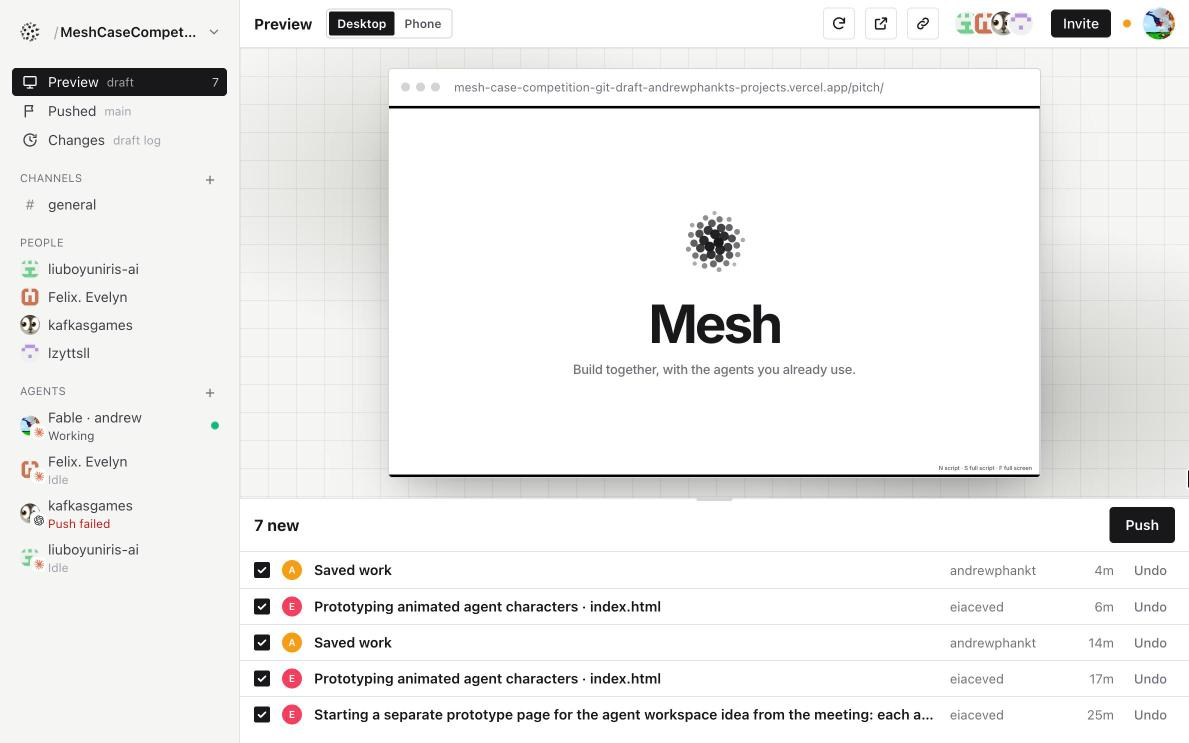
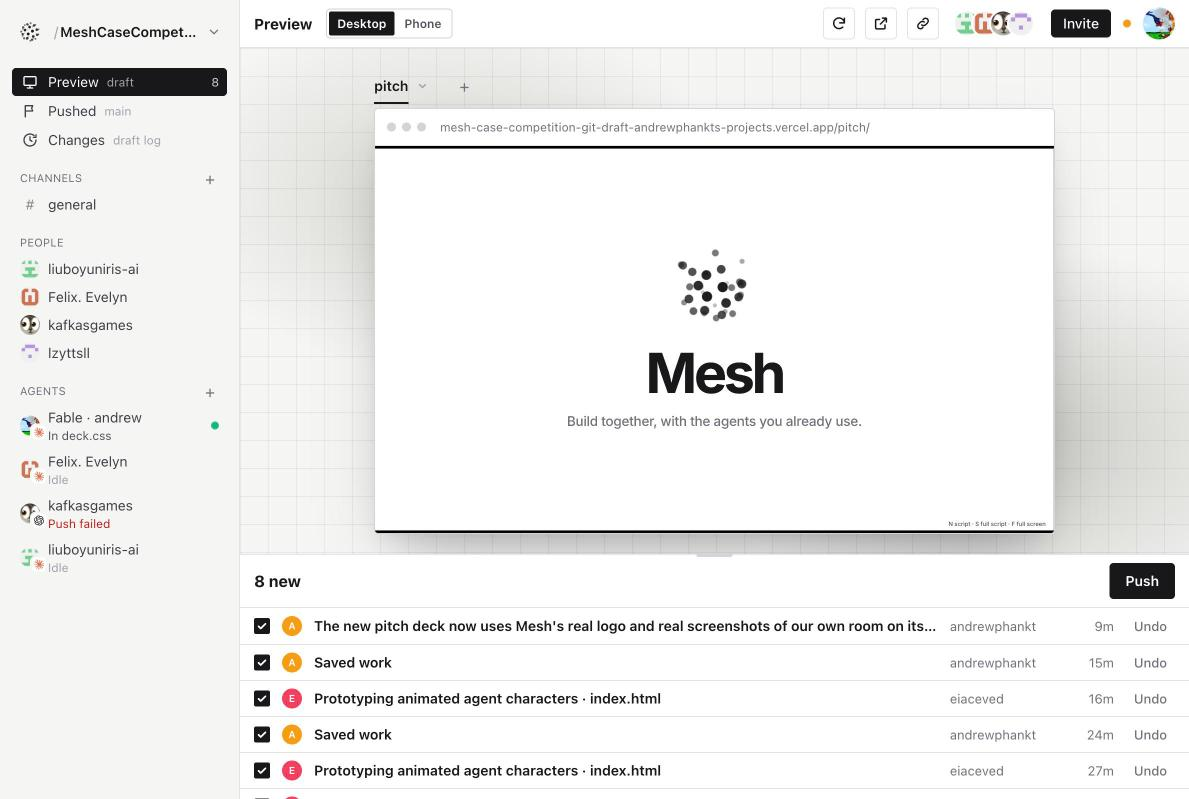
Saved turn

diff --git a/pitch/index.html b/pitch/index.html
@@ -8,6 +8,7 @@
 <link rel="preconnect" href="https://fonts.gstatic.com" crossorigin>
 <link href="https://fonts.googleapis.com/css2?family=Inter:wght@400;500;600;700&family=JetBrains+Mono:wght@400;500&display=swap" rel="stylesheet">
 <link rel="stylesheet" href="deck.css">
+<link rel="stylesheet" href="live.css">
 </head>
 <body>
 <!--
@@ -84,20 +85,49 @@
     <div class="script">So we built Mesh: one room for your team and everyone's agents.</div>
   </section>
 
-  <!-- 6b Setup: the real onboarding, one screen per click -->
+  <!-- 6b Setup: Mesh's onboarding, drawn live in HTML, one screen per click -->
   <section class="slide" data-title="Setup" data-section="Mesh">
     <h2 class="h2 rise">Three steps. One paste.</h2>
     <div class="desk sm rise">
       <div class="browser">
         <div class="chrome"><span class="dots"><i></i><i></i><i></i></span><span class="tab"><svg class="fav" aria-hidden="true"></svg>Mesh</span></div>
         <div class="bar"><span class="nav">&#8592; &#8594;</span><span class="url">agentslack-production.up.railway.app</span></div>
-        <div class="screen wide">
-          <img src="screens/setup-1-signin.jpg" alt="Mesh sign-in: Different Agents, Same Project, Continue with GitHub">
-          <img class="shot" data-step="1" src="screens/setup-2-project.jpg" alt="Step 2: Pick your project, a GitHub repo">
-          <img class="shot" data-step="2" src="screens/setup-3-agent.jpg" alt="Step 3: Which agent do you use? Claude, Codex, Gemini CLI or Antigravity">
-          <img class="shot" data-step="3" src="screens/setup-4-paste.jpg" alt="Paste this into Codex, with one Copy button">
-          <div class="slot"><b>Mesh · Setup</b><span>screens/setup-*.jpg</span></div>
-        </div>
+        <div class="screen wide has-img"><div class="live">
+          <div class="lv" data-orbits="bot">
+            <div class="stepper"><span class="now"><b>1</b>Sign in</span><hr class=""><span class=""><b>2</b>Project</span><hr class=""><span class=""><b>3</b>Agent</span></div>
+            <div class="center"><svg class="logo fav" aria-hidden="true"></svg><div class="word">MESH</div><h3>Different Agents, Same Project</h3><span class="btn press"><svg viewBox="0 0 24 24" fill="none" stroke="currentColor" stroke-width="2" stroke-linecap="round" aria-hidden="true"><circle cx="6" cy="6" r="2.5"/><circle cx="6" cy="18" r="2.5"/><circle cx="18" cy="9" r="2.5"/><path d="M6 8.5v7M18 11.5c0 3-4 3.5-9.5 5"/></svg>Continue with GitHub</span></div>
+            <div class="foot">What Is Mesh<br>&#8964;</div>
+          </div>
+          <div class="lv" data-step="1" data-act="project">
+            <div class="stepper"><span class="done"><b>&#10003;</b>Sign in</span><hr class="done"><span class="now"><b>2</b>Project</span><hr class=""><span class=""><b>3</b>Agent</span></div>
+            <div class="center"><div class="pick">
+              <h3>Pick your project</h3>
+              <div class="search" data-type="MeshCase" data-placeholder="Search"><span class="t">Search</span><span class="tcaret"></span></div>
+              <div class="repos"><div class="repo" data-name="MeshCaseCompetition"><svg viewBox="0 0 24 24" fill="none" stroke="currentColor" stroke-width="2" stroke-linecap="round" aria-hidden="true"><circle cx="6" cy="6" r="2.5"/><circle cx="6" cy="18" r="2.5"/><circle cx="18" cy="9" r="2.5"/><path d="M6 8.5v7M18 11.5c0 3-4 3.5-9.5 5"/></svg><span>andrewphankt / <b>MeshCaseCompetition</b></span><em>Public</em></div><div class="repo" data-name="study-sprint"><svg viewBox="0 0 24 24" fill="none" stroke="currentColor" stroke-width="2" stroke-linecap="round" aria-hidden="true"><circle cx="6" cy="6" r="2.5"/><circle cx="6" cy="18" r="2.5"/><circle cx="18" cy="9" r="2.5"/><path d="M6 8.5v7M18 11.5c0 3-4 3.5-9.5 5"/></svg><span>team4 / <b>study-sprint</b></span><em>Private</em></div><div class="repo" data-name="club-finder"><svg viewBox="0 0 24 24" fill="none" stroke="currentColor" stroke-width="2" stroke-linecap="round" aria-hidden="true"><circle cx="6" cy="6" r="2.5"/><circle cx="6" cy="18" r="2.5"/><circle cx="18" cy="9" r="2.5"/><path d="M6 8.5v7M18 11.5c0 3-4 3.5-9.5 5"/></svg><span>team4 / <b>club-finder</b></span><em>Private</em></div><div class="repo" data-name="landing-page"><svg viewBox="0 0 24 24" fill="none" stroke="currentColor" stroke-width="2" stroke-linecap="round" aria-hidden="true"><circle cx="6" cy="6" r="2.5"/><circle cx="6" cy="18" r="2.5"/><circle cx="18" cy="9" r="2.5"/><path d="M6 8.5v7M18 11.5c0 3-4 3.5-9.5 5"/></svg><span>andrewphankt / <b>landing-page</b></span><em>Public</em></div></div>
+              <div class="row2"><div class="search"><span class="t">Or paste a GitHub link</span></div><span class="ghost">Open Project</span></div>
+              <div class="link">I Have an Invite Link</div>
+            </div></div>
+          </div>
+          <div class="lv" data-step="2" data-orbits="bot">
+            <span class="x">&#215;</span>
+            <div class="center"><h3>Which agent do you use?</h3>
+              <div class="agents">
+                <div class="agent"><svg viewBox="0 0 48 48" aria-hidden="true"><g stroke="#D97757" stroke-width="4.2" stroke-linecap="round"><line x1="24" y1="24" x2="38.7" y2="27.0"/><line x1="24" y1="24" x2="38.2" y2="36.6"/><line x1="24" y1="24" x2="28.8" y2="38.2"/><line x1="24" y1="24" x2="20.2" y2="42.6"/><line x1="24" y1="24" x2="14.1" y2="35.2"/><line x1="24" y1="24" x2="6.0" y2="30.0"/><line x1="24" y1="24" x2="9.3" y2="21.0"/><line x1="24" y1="24" x2="9.8" y2="11.4"/><line x1="24" y1="24" x2="19.2" y2="9.8"/><line x1="24" y1="24" x2="27.8" y2="5.4"/><line x1="24" y1="24" x2="33.9" y2="12.8"/><line x1="24" y1="24" x2="42.0" y2="18.0"/></g></svg>Claude</div>
+                <div class="agent choose"><svg viewBox="0 0 48 48" fill="none" stroke="currentColor" stroke-width="3" aria-hidden="true"><g transform="translate(24 24)"><rect x="-6" y="-18" width="12" height="21" rx="6" transform="rotate(0)"/><rect x="-6" y="-18" width="12" height="21" rx="6" transform="rotate(60)"/><rect x="-6" y="-18" width="12" height="21" rx="6" transform="rotate(120)"/><rect x="-6" y="-18" width="12" height="21" rx="6" transform="rotate(180)"/><rect x="-6" y="-18" width="12" height="21" rx="6" transform="rotate(240)"/><rect x="-6" y="-18" width="12" height="21" rx="6" transform="rotate(300)"/></g></svg>Codex</div>
+                <div class="agent"><svg viewBox="0 0 48 48" aria-hidden="true"><defs><linearGradient id="gem" x1="0" y1="0" x2="1" y2="1"><stop offset="0" stop-color="#4f8df5"/><stop offset=".55" stop-color="#9b72e8"/><stop offset="1" stop-color="#d96fa8"/></linearGradient></defs><path fill="url(#gem)" d="M24 3c1.6 11.2 8.8 18.4 21 21-12.2 2.6-19.4 9.8-21 21-1.6-11.2-8.8-18.4-21-21C15.2 21.4 22.4 14.2 24 3z"/></svg>Gemini CLI</div>
+              </div>
+            </div>
+          </div>
+          <div class="lv" data-step="3" data-orbits="ic-codex" data-act="paste">
+            <span class="x">&#215;</span>
+            <div class="center"><span class="logo" style="color:#18181b"><svg viewBox="0 0 48 48" fill="none" stroke="currentColor" stroke-width="3" aria-hidden="true"><g transform="translate(24 24)"><rect x="-6" y="-18" width="12" height="21" rx="6" transform="rotate(0)"/><rect x="-6" y="-18" width="12" height="21" rx="6" transform="rotate(60)"/><rect x="-6" y="-18" width="12" height="21" rx="6" transform="rotate(120)"/><rect x="-6" y="-18" width="12" height="21" rx="6" transform="rotate(180)"/><rect x="-6" y="-18" width="12" height="21" rx="6" transform="rotate(240)"/><rect x="-6" y="-18" width="12" height="21" rx="6" transform="rotate(300)"/></g></svg></span>
+              <h3 style="margin-top:18px">Paste this into Codex</h3>
+              <span class="btn copy"><span class="c1"><svg viewBox="0 0 24 24" fill="none" stroke="currentColor" stroke-width="2" aria-hidden="true"><rect x="8" y="8" width="12" height="12" rx="2"/><path d="M16 8V5a1 1 0 0 0-1-1H5a1 1 0 0 0-1 1v10a1 1 0 0 0 1 1h3"/></svg>Copy</span><span class="c2">&#10003; Copied</span></span>
+              <div class="show">&#9656; Show the text</div>
+              <div class="links"><span>Back</span><span>Use Terminal Instead</span></div>
+            </div>
+          </div>
+        </div></div>
       </div>
     </div>
     <div class="steps-cap rise">
@@ -106,23 +136,27 @@
       <span data-cap="2"><i>3</i>Pick your agent</span>
       <span data-cap="3"><i>&#10003;</i>Paste one message</span>
     </div>
-    <div class="script">Here's the whole setup. These are our real screens. One: sign in with GitHub. [click] Two: pick your project, which is just your GitHub repo. [click] Three: pick the agent you already use: Claude, Codex, Gemini or Antigravity. [click] Then Mesh gives you one message. Copy it, paste it into your agent, and your agent sets itself up. No git commands, no config files. Remember the 33 minutes? This is the fix.</div>
+    <div class="script">Here's the whole setup, the way Mesh really works. One: sign in with GitHub. [click] Two: pick your project, which is just your GitHub repo. [click] Three: pick the agent you already use: Claude, Codex or Gemini. [click] Then Mesh gives you one message. Copy it, paste it into your agent, and your agent sets itself up. Nobody types a git command. Remember the 33 minutes? This is the fix.</div>
   </section>
 
-  <!-- 7 The room -->
+  <!-- 7 The room, with two features lifted out -->
   <section class="slide" data-title="The room" data-section="Mesh">
     <h2 class="h2 rise">Everyone's work. One shared draft.</h2>
-    <div class="desk rise">
+    <div class="desk tallshot rise">
       <div class="browser">
         <div class="chrome"><span class="dots"><i></i><i></i><i></i></span><span class="tab"><svg class="fav" aria-hidden="true"></svg>Mesh</span></div>
         <div class="bar"><span class="nav">&#8592; &#8594;</span><span class="url">agentslack-production.up.railway.app</span></div>
-        <div class="screen">
-          <img src="screens/preview.jpg" alt="Mesh's Preview tab: the team's draft as a live page, with the list of saved changes under it">
+        <div class="screen tall">
+          <img src="screens/preview.jpg" alt="Mesh's Preview tab: the team's draft as a live page, with tabs for each preview and the saved changes under it">
           <div class="slot"><b>Mesh · Preview</b><span>screens/preview.jpg</span></div>
         </div>
       </div>
+      <div class="pop" data-step="1" data-nw="1189" data-region="356,70,130,34" data-zoom="2.6" data-dx="-300" data-dy="-20"></div>
+      <div class="callout" data-step="1" data-side="below"><span class="tag">New</span><b>A tab for every preview.</b><span>The deck, the app, a prototype. The whole team flips between them.</span></div>
+      <div class="pop" data-step="2" data-nw="1189" data-region="240,556,949,150" data-zoom="1.08" data-dx="-150" data-dy="110"></div>
+      <div class="callout" data-step="2" data-side="right"><b>Push sends it public.</b><span>Every saved change waits here until a person says go.</span></div>
     </div>
-    <div class="script">This is the room, our real one. Every agent's work saves into one shared draft, and the Preview shows that draft as a live page anyone on the team can open, coder or not. Yes, that's this deck inside it: we built this pitch in Mesh. Under it is every saved change, waiting for a person to send it out.</div>
+    <div class="script">This is the room, our real one. Every agent's work saves into one shared draft, and the Preview shows that draft as a live page anyone can open, coder or not. Yes, that's this deck inside it: we built this pitch in Mesh. [click] Up top, a tab for every preview: the deck, the app, a prototype. We added that this week. [click] And under it, every saved change waits. Nothing goes public until a person presses Push.</div>
   </section>
 
   <!-- 8 Changes -->
@@ -137,16 +171,20 @@
           <div class="slot"><b>Mesh · Changes</b><span>screens/changes.jpg</span></div>
         </div>
       </div>
+      <div class="pop" data-step="1" data-nw="1189" data-region="872,64,317,124" data-zoom="1.75" data-dx="190" data-dy="-30"></div>
+      <div class="callout" data-step="1" data-side="below"><b>See who's working, live.</b><span>Every agent's task, right now, so two people never start the same thing.</span></div>
     </div>
-    <div class="script">This is Changes. Each time an agent finishes, it writes one plain sentence about what's different, the kind anyone on the team can read. On the right: who's working right now and on what. Nobody pastes updates into the group chat anymore.</div>
+    <div class="script">This is Changes. Each time an agent finishes, it writes one plain sentence about what's different, the kind anyone on the team can read. [click] On the right: who's working right now, and on what. Nobody pastes updates into the group chat anymore.</div>
   </section>
 
   <div id="progress" aria-hidden="true"></div>
 </main>
 
+<div id="ic-codex" hidden><svg viewBox="0 0 48 48" fill="none" stroke="currentColor" stroke-width="3" aria-hidden="true"><g transform="translate(24 24)"><rect x="-6" y="-18" width="12" height="21" rx="6" transform="rotate(0)"/><rect x="-6" y="-18" width="12" height="21" rx="6" transform="rotate(60)"/><rect x="-6" y="-18" width="12" height="21" rx="6" transform="rotate(120)"/><rect x="-6" y="-18" width="12" height="21" rx="6" transform="rotate(180)"/><rect x="-6" y="-18" width="12" height="21" rx="6" transform="rotate(240)"/><rect x="-6" y="-18" width="12" height="21" rx="6" transform="rotate(300)"/></g></svg></div>
 <div id="notes" hidden></div>
 <div id="scriptview" hidden></div>
 <div id="hint">N script · S full script · F full screen</div>
 <script src="deck.js"></script>
+<script src="live.js"></script>
 </body>
 </html>

diff --git a/pitch/live.css b/pitch/live.css
@@ -1,0 +1,105 @@
+/* Live app screens drawn in HTML (Mesh's look: Inter, zinc greys, black buttons, 4px corners),
+   and pop-out callouts that lift one feature out of a browser mock. */
+
+/* A live screen is drawn at the app's real size (1278 x 743) and scaled to fit the browser */
+.live { position: absolute; left: 0; top: 0; width: 1278px; height: 743px; transform-origin: 0 0; font-family: var(--font); color: var(--ink); background: #fff; overflow: hidden; }
+.lv { position: absolute; inset: 0; background: #fff; transition: opacity .7s var(--ease), transform .9s var(--ease), filter .7s var(--ease); }
+.lv.hide { opacity: 0 !important; transform: scale(1.015) !important; filter: blur(6px); }
+
+/* Orbits and floating agents behind the onboarding */
+.lv .orbits { position: absolute; inset: 0; width: 100%; height: 100%; pointer-events: none; }
+.lv .orbits ellipse { fill: none; stroke: #d4d4d8; stroke-width: 1.4; stroke-dasharray: 1 7; stroke-linecap: round; }
+.lv .orbits .o1 { animation: orbit 90s linear infinite; transform-origin: 640px 400px; }
+.lv .orbits .o2 { animation: orbit 120s linear infinite reverse; transform-origin: 640px 400px; }
+.lv .orbits .o3 { animation: orbit 150s linear infinite; transform-origin: 640px 400px; }
+@keyframes orbit { to { transform: rotate(360deg); } }
+.lv .bot { position: absolute; left: 0; top: 0; width: 34px; height: 34px; color: #b4b4bb; offset-rotate: 0deg; animation: ride linear infinite; }
+.lv .bot.sm { width: 22px; height: 22px; color: #d4d4d8; }
+.lv .bot svg { width: 100%; height: 100%; animation: bob 3.2s ease-in-out infinite; }
+@keyframes ride { from { offset-distance: 0%; } to { offset-distance: 100%; } }
+@keyframes bob { 50% { transform: translateY(-5px) rotate(-6deg); } }
+
+/* Stepper */
+.lv .stepper { position: absolute; top: 26px; left: 0; right: 0; display: flex; justify-content: center; align-items: center; gap: 14px; font: 600 15px/1 var(--font); color: #71717a; z-index: 2; }
+.lv .stepper span { display: flex; align-items: center; gap: 9px; }
+.lv .stepper b { display: grid; place-items: center; width: 24px; height: 24px; border-radius: 50%; border: 1.5px solid #d4d4d8; font-size: 12px; font-weight: 600; color: #71717a; }
+.lv .stepper .now { color: var(--ink); } .lv .stepper .now b { background: var(--ink); border-color: var(--ink); color: #fff; }
+.lv .stepper .done { color: var(--ink); } .lv .stepper .done b { background: var(--ink); border-color: var(--ink); color: #fff; font-size: 13px; }
+.lv .stepper hr { width: 32px; border: 0; border-top: 1.5px solid #d4d4d8; margin: 0; }
+.lv .stepper hr.done { border-color: var(--ink); }
+
+.lv .center { position: absolute; inset: 0; display: flex; flex-direction: column; align-items: center; justify-content: center; z-index: 2; }
+.lv h3 { font: 700 30px/1.1 var(--font); letter-spacing: -0.03em; margin: 0; }
+.lv .word { font: 700 15px/1 var(--font); letter-spacing: .28em; margin: 12px 0 22px; }
+.lv .logo { width: 54px; height: 54px; color: var(--ink); }
+.lv .btn { display: inline-flex; align-items: center; justify-content: center; gap: 12px; height: 52px; padding: 0 34px; border-radius: 5px; background: var(--ink); color: #fff; font: 600 17px/1 var(--font); margin-top: 30px; }
+.lv .btn svg { width: 18px; height: 18px; }
+.lv .foot { position: absolute; bottom: 22px; left: 0; right: 0; text-align: center; font: 500 14px/1.4 var(--font); color: #71717a; }
+.lv .x { position: absolute; top: 28px; right: 26px; width: 36px; height: 36px; border: 1px solid #e4e4e7; border-radius: 5px; display: grid; place-items: center; font: 400 20px/1 var(--font); z-index: 3; }
+
+/* Sign in: the button gets a soft press */
+.lv.play .btn.press { animation: press 3.4s var(--ease) 1.4s infinite; }
+@keyframes press { 0%, 70%, 100% { transform: scale(1); } 76% { transform: scale(.95); } 84% { transform: scale(1); } }
+
+/* Pick your project */
+.lv .pick { width: 480px; display: flex; flex-direction: column; gap: 12px; }
+.lv .pick h3 { text-align: center; margin-bottom: 18px; }
+.lv .search { height: 42px; border: 1px solid #d4d4d8; border-radius: 5px; padding: 0 13px; display: flex; align-items: center; font: 400 15px/1 var(--font); color: #a1a1aa; }
+.lv .search.typing { border: 2px solid var(--ink); color: var(--ink); }
+.lv .search .tcaret { display: inline-block; width: 1.5px; height: 18px; background: var(--ink); margin-left: 1px; animation: blink 1.1s steps(1) infinite; }
+.lv .repos { border: 1px solid #e4e4e7; border-radius: 5px; overflow: hidden; }
+.lv .repo { display: flex; align-items: center; gap: 12px; height: 45px; padding: 0 15px; border-top: 1px solid #e4e4e7; font: 400 15px/1 var(--font); color: #71717a; transition: height .5s var(--ease), opacity .4s, background .3s; overflow: hidden; }
+.lv .repo:first-child { border-top: 0; }
+.lv .repo b { color: var(--ink); font-weight: 600; }
+.lv .repo em { margin-left: auto; font-style: normal; font-size: 13px; }
+.lv .repo svg { width: 15px; height: 15px; color: var(--ink); flex-shrink: 0; }
+.lv .repo.gone { height: 0; opacity: 0; border-top-width: 0; }
+.lv .repo.pick-me { background: #f4f4f5; }
+.lv .row2 { display: flex; gap: 8px; }
+.lv .row2 .search { flex: 1; }
+.lv .ghost { height: 42px; padding: 0 16px; border: 1px solid #e4e4e7; border-radius: 5px; display: flex; align-items: center; font: 600 15px/1 var(--font); color: #a1a1aa; }
+.lv .link { text-align: center; font: 500 14px/1 var(--font); color: #71717a; margin-top: 14px; }
+
+/* Which agent do you use? */
+.lv .agents { display: flex; gap: 18px; margin-top: 40px; }
+.lv .agent { width: 186px; height: 186px; border: 1px solid #e4e4e7; border-radius: 6px; background: #fff; display: flex; flex-direction: column; align-items: center; justify-content: center; gap: 18px; font: 600 17px/1 var(--font); transition: border-color .4s, box-shadow .4s, transform .5s var(--ease); }
+.lv .agent svg { width: 48px; height: 48px; }
+.lv.play .agent.choose { animation: choose 1s var(--ease) 1.6s forwards; }
+@keyframes choose { to { border-color: var(--ink); box-shadow: 0 0 0 1.5px var(--ink), 0 18px 40px -18px rgba(0,0,0,.35); transform: translateY(-4px); } }
+
+/* Paste this into your agent */
+.lv .copy { min-width: 190px; height: 60px; font-size: 19px; border-radius: 6px; position: relative; }
+.lv .copy span { display: inline-flex; align-items: center; gap: 12px; }
+.lv .copy .c2 { display: none; }
+.lv .copy.done .c1 { display: none; }
+.lv .copy.done .c2 { display: inline-flex; }
+.lv .copy.down { transform: scale(.95); }
+.lv .copy { transition: transform .25s var(--ease); }
+.lv .show { margin-top: 30px; font: 500 15px/1 var(--font); color: #71717a; align-self: center; margin-right: 210px; }
+.lv .links { display: flex; gap: 20px; margin-top: 30px; font: 500 15px/1 var(--font); color: #71717a; }
+
+/* Entrance for content on a live screen when it starts playing */
+.lv .in { opacity: 0; transform: translateY(14px); }
+.lv.play .in { animation: lvin .9s var(--ease) forwards; }
+.lv.play .in:nth-of-type(2) { animation-delay: .1s; }
+@keyframes lvin { to { opacity: 1; transform: none; } }
+
+/* ---------- Pop-out callouts ---------- */
+.desk { overflow: visible; }
+.browser { position: relative; transition: filter .6s var(--ease), transform .9s var(--ease); }
+.desk:has(.pop:not(.hide)) .browser { filter: brightness(.9) saturate(.85); transform: scale(.985); }
+.pop { position: absolute; z-index: 4; border-radius: 10px; background-repeat: no-repeat; background-color: #fff;
+  box-shadow: 0 0 0 1px rgba(0,0,0,.08), 0 30px 60px -18px rgba(15,15,40,.45), 0 10px 20px -10px rgba(15,15,40,.3);
+  transition: opacity .6s var(--ease), transform .8s var(--ease) !important; }
+.pop.hide { opacity: 0 !important; transform: scale(.72) !important; filter: none !important; }
+.lv span.logo { display: block; }
+.lv .logo svg { width: 100%; height: 100%; }
+.callout { position: absolute; z-index: 5; width: 380px; text-align: left; padding: 20px 22px 22px; border-radius: 12px; background: rgba(255,255,255,.92); backdrop-filter: blur(14px); box-shadow: 0 0 0 1px rgba(0,0,0,.06), 0 24px 50px -20px rgba(15,15,40,.35); transition: opacity .6s var(--ease) .15s, transform .8s var(--ease) .15s !important; }
+.callout.hide { transform: translateY(10px) !important; filter: none !important; }
+.callout b { display: block; font: 700 28px/1.15 var(--font); letter-spacing: -0.02em; color: var(--ink); }
+.callout span { display: block; margin-top: 8px; font: 500 19px/1.4 var(--font); color: var(--ink-2); }
+.callout .tag { display: inline-block; margin-bottom: 10px; padding: 5px 10px; border-radius: 4px; background: var(--ink); color: #fff; font: 600 13px/1 var(--font); letter-spacing: .06em; text-transform: uppercase; }
+
+@media (prefers-reduced-motion: reduce) {
+  .lv *, .lv { animation-duration: .01s !important; animation-iteration-count: 1 !important; }
+}

diff --git a/pitch/live.js b/pitch/live.js
@@ -1,0 +1,112 @@
+/* Live app screens and pop-out callouts. Runs alongside deck.js and reacts to its classes:
+   a slide is showing when it has .on, a step is hidden while it has .hide. */
+(function () {
+  var reduce = window.matchMedia && matchMedia('(prefers-reduced-motion: reduce)').matches;
+
+  /* Scale each live screen (drawn at 1278 x 743) to its browser */
+  function fitLive() {
+    document.querySelectorAll('.live').forEach(function (l) {
+      var w = l.parentNode.offsetWidth; if (w) l.style.transform = 'scale(' + (w / 1278) + ')';
+    });
+  }
+
+  /* Floating agents riding the dotted orbits */
+  var BOT = '<svg viewBox="0 0 24 24" fill="currentColor" aria-hidden="true"><rect x="4" y="7" width="16" height="12" rx="4"/><rect x="11" y="2.5" width="2" height="4" rx="1"/><circle cx="12" cy="2.5" r="1.6"/><circle cx="9" cy="13" r="1.8" fill="#fff"/><circle cx="15" cy="13" r="1.8" fill="#fff"/><rect x="1.5" y="11" width="2.5" height="4" rx="1.2"/><rect x="20" y="11" width="2.5" height="4" rx="1.2"/></svg>';
+  function ellipsePath(rx, ry) {
+    var cx = 640, cy = 400;
+    return 'path("M ' + (cx - rx) + ' ' + cy + ' a ' + rx + ' ' + ry + ' 0 1 0 ' + 2 * rx + ' 0 a ' + rx + ' ' + ry + ' 0 1 0 ' + -2 * rx + ' 0")';
+  }
+  document.querySelectorAll('.lv[data-orbits]').forEach(function (lv) {
+    var rings = [[300, 170, 70], [480, 260, 95], [660, 360, 120]];
+    var svg = '<svg class="orbits" viewBox="0 0 1278 743" aria-hidden="true">' +
+      rings.map(function (r, i) { return '<ellipse class="o' + (i + 1) + '" cx="640" cy="400" rx="' + r[0] + '" ry="' + r[1] + '"/>'; }).join('') + '</svg>';
+    lv.insertAdjacentHTML('afterbegin', svg);
+    var icon = lv.dataset.orbits === 'bot' ? BOT : (document.getElementById(lv.dataset.orbits) || {}).innerHTML || BOT;
+    var spots = [[0, 0, 0], [0, .55, 1], [1, .2, 0], [1, .7, 1], [2, .1, 0], [2, .45, 1], [2, .8, 0]];
+    spots.forEach(function (s) {
+      var r = rings[s[0]], b = document.createElement('span');
+      b.className = 'bot' + (s[2] ? ' sm' : '');
+      b.innerHTML = icon;
+      b.style.offsetPath = ellipsePath(r[0], r[1]);
+      b.style.animationDuration = r[2] + 's';
+      b.style.animationDelay = (-s[1] * r[2]) + 's';
+      b.firstChild.style.animationDelay = (-s[1] * 3) + 's';
+      lv.insertBefore(b, lv.children[1]);
+    });
+  });
+
+  /* What each live screen does while it is showing */
+  var acts = {
+    project: function (lv, later) {
+      var box = lv.querySelector('.search'), txt = box.querySelector('.t'), repos = lv.querySelectorAll('.repo');
+      var word = box.dataset.type || '', i = 0;
+      box.classList.remove('typing'); txt.textContent = box.dataset.placeholder;
+      repos.forEach(function (r) { r.classList.remove('gone', 'pick-me'); });
+      later(function () { box.classList.add('typing'); txt.textContent = ''; }, 900);
+      (function type() {
+        later(function () {
+          i++; txt.textContent = word.slice(0, i);
+          var q = word.slice(0, i).toLowerCase();
+          repos.forEach(function (r) { r.classList.toggle('gone', r.dataset.name.toLowerCase().indexOf(q) < 0); });
+          if (i < word.length) type(); else later(function () { lv.querySelector('.repo:not(.gone)').classList.add('pick-me'); }, 500);
+        }, i === 0 ? 1200 : 110);
+      })();
+    },
+    paste: function (lv, later) {
+      var c = lv.querySelector('.copy'); c.classList.remove('done', 'down');
+      later(function () { c.classList.add('down'); }, 1500);
+      later(function () { c.classList.remove('down'); c.classList.add('done'); }, 1700);
+    }
+  };
+
+  var running = new Map();
+  function visible(lv) { var s = lv.closest('.slide'); return s && s.classList.contains('on') && !lv.classList.contains('hide'); }
+  function sync() {
+    document.querySelectorAll('.lv').forEach(function (lv) {
+      var on = visible(lv), was = running.has(lv);
+      if (on && !was) {
+        var timers = []; running.set(lv, timers);
+        lv.classList.remove('play'); void lv.offsetWidth; lv.classList.add('play');
+        var fn = acts[lv.dataset.act];
+        if (fn) fn(lv, function (f, ms) { timers.push(setTimeout(f, reduce ? 0 : ms)); });
+      } else if (!on && was) {
+        running.get(lv).forEach(clearTimeout); running.delete(lv); lv.classList.remove('play');
+      }
+    });
+  }
+
+  /* Pop-outs: lift one region of a screenshot out of the browser, bigger, with a label beside it */
+  function offsetIn(el, root) { var x = 0, y = 0; while (el && el !== root) { x += el.offsetLeft; y += el.offsetTop; el = el.offsetParent; } return [x, y]; }
+  function placePops() {
+    document.querySelectorAll('.pop').forEach(function (p) {
+      var desk = p.closest('.desk'), screen = desk.querySelector('.screen'), img = screen.querySelector('img');
+      if (!img) return;
+      var nw = +p.dataset.nw || img.naturalWidth || 1189, s = screen.offsetWidth / nw;
+      var r = p.dataset.region.split(',').map(Number), z = +p.dataset.zoom || 1.5;
+      var o = offsetIn(screen, desk);
+      var cx = o[0] + (r[0] + r[2] / 2) * s + (+p.dataset.dx || 0), cy = o[1] + (r[1] + r[3] / 2) * s + (+p.dataset.dy || 0);
+      var w = r[2] * s * z, h = r[3] * s * z;
+      p.style.width = w + 'px'; p.style.height = h + 'px';
+      p.style.left = (cx - w / 2) + 'px'; p.style.top = (cy - h / 2) + 'px';
+      p.style.backgroundImage = 'url("' + img.getAttribute('src') + '")';
+      p.style.backgroundSize = (nw * s * z) + 'px auto';
+      p.style.backgroundPosition = (-r[0] * s * z) + 'px ' + (-r[1] * s * z) + 'px';
+      var c = p.nextElementSibling;
+      if (c && c.classList.contains('callout')) {
+        var side = c.dataset.side || 'right', gap = 30, left, top;
+        if (side === 'right') { left = cx + w / 2 + gap; top = cy - 50; }
+        else if (side === 'left') { left = cx - w / 2 - gap - 380; top = cy - 50; }
+        else if (side === 'below') { left = cx - w / 2; top = cy + h / 2 + gap; }
+        else { left = cx - w / 2; top = cy - h / 2 - gap - 120; }
+        c.style.left = left + 'px'; c.style.top = top + 'px';
+      }
+    });
+  }
+
+  function all() { fitLive(); placePops(); sync(); }
+  new MutationObserver(sync).observe(document.getElementById('stage'), { subtree: true, attributes: true, attributeFilter: ['class'] });
+  addEventListener('resize', all);
+  addEventListener('load', all);
+  document.fonts && document.fonts.ready.then(all);
+  all();
+})();

diff --git a/pitch/deck.css b/pitch/deck.css
@@ -164,3 +164,8 @@ body { font-family: var(--font); color: var(--ink); -webkit-font-smoothing: anti
   .rise, [data-step].hide { opacity: 1 !important; transform: none !important; filter: none !important; }
   #progress, #notes, #hint { display: none !important; }
 }
+
+/* Taller screenshot (the Preview with its tabs row) */
+.browser .screen.tall { aspect-ratio: 1189 / 799; }
+.desk.tallshot .browser { width: 820px; }
+.screen.has-img .slot { display: none; }

diff --git a/pitch/screens/README.md b/pitch/screens/README.md
@@ -1,6 +1,6 @@
 # Screens for the pitch deck
 
-Screenshots of our real Mesh room. A laptop mock in the deck shows a file as soon as it exists; until then it shows a labelled placeholder.
+Screenshots of our real Mesh room. A browser mock in the deck shows a file as soon as it exists; until then it shows a labelled placeholder.
 
 Use 16:10 screenshots of the browser window, with no personal chat, links, keys or emails visible.
 
@@ -8,7 +8,5 @@ Use 16:10 screenshots of the browser window, with no personal chat, links, keys 
 | --- | --- | --- |
 | preview.jpg | The Preview tab: this deck as the team's live draft, with the saved changes under it | The room |
 | changes.jpg | The Changes tab: one plain-English note per agent, and who is working now | Changes |
-| setup-1-signin.jpg | Sign-in: "Different Agents, Same Project", Continue with GitHub | Setup |
-| setup-2-project.jpg | Pick your project (search filtered to this repo, so private repos don't show) | Setup |
-| setup-3-agent.jpg | Which agent do you use? Claude, Codex, Gemini CLI, Antigravity | Setup |
-| setup-4-paste.jpg | Paste this into Codex: one Copy button, the key stays hidden | Setup |
+
+The setup slide is drawn live in HTML (live.css and live.js), not from screenshots.
